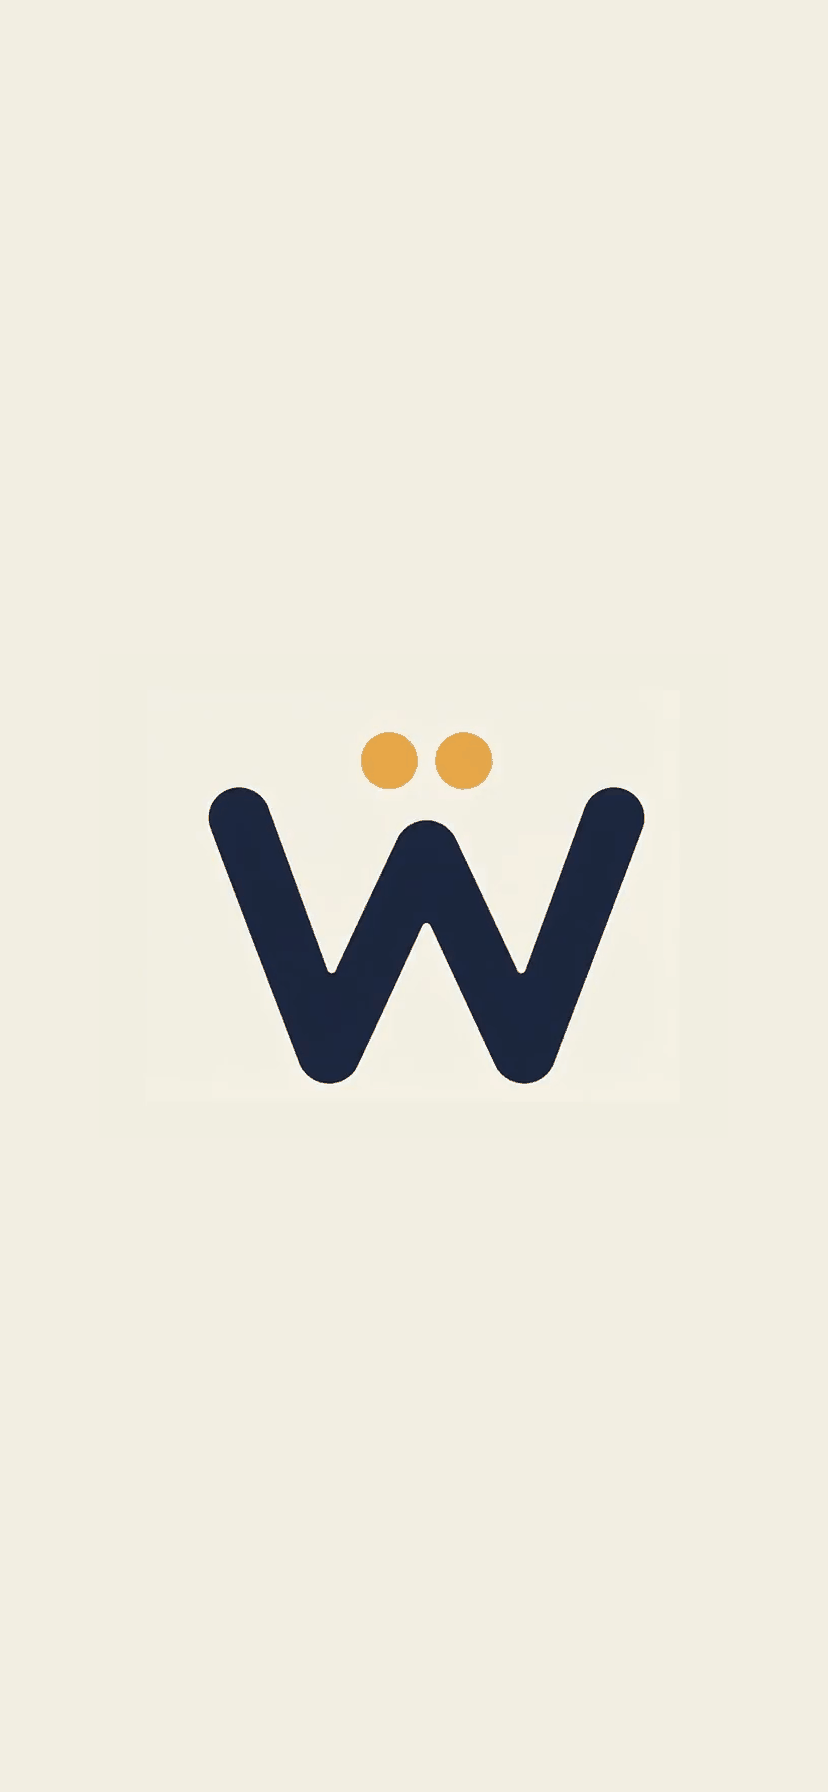
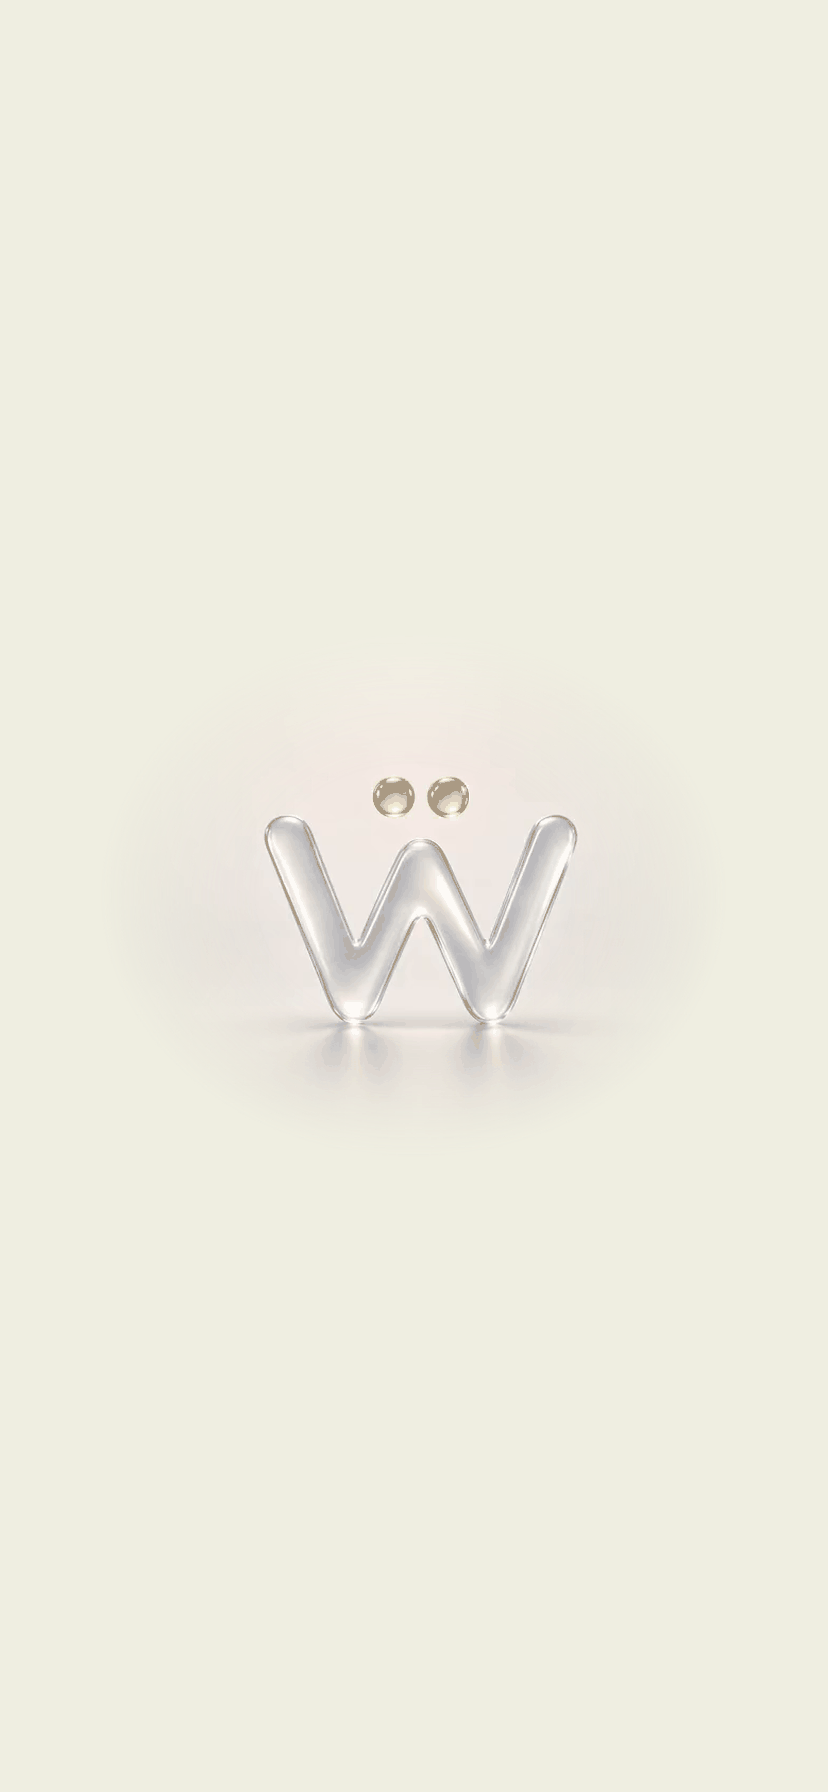
v443 : les eclairs de l'ouverture -- trois images differentes la ou il n'en fallait qu'une
Jacques : « je vois le logo, apres ca je vois une video, il y a comme des
flashs ». Trois causes, toutes mesurees.

1. LA VIDEO REPARTAIT EN ARRIERE. Un <video> reste affiche sur sa DERNIERE
image. On decouvrait donc l'ecran sur la fin de l'animation -- le logo
d'encre -- et le rembobinage qui suivait le faisait sauter a sa version de
verre avant de rejouer. Le logo apparaissait fini, reculait, puis repartait.
Mesure : apres la premiere ouverture, currentTime reste a 3,00 s ; couvrir()
remontrait cette image-la. Corrige en rembobinant AVANT de decouvrir, et des
que l'ecran est cache -- ou personne ne le voit. jouer() n'a donc plus a
rembobiner du tout : une ligne de moins, et l'ordre devient impossible a
inverser.

Ca vaut aussi pour la mise a jour silencieuse, qui passe par la meme porte.

2. L'IMAGE DE LANCEMENT iOS MONTRAIT UN AUTRE LOGO. Elle date du 28 aout
(v258) et reproduit la premiere image de l'ANCIENNE video : un W plat, bleu
encre. La video a ete remplacee en v372-v373 -- elle commence maintenant sur
un W de VERRE. iOS montrait donc le logo fini, puis la page peignait le logo
de verre. Rien ne signalait la derive : deux fichiers, deux calendriers.

3. ET SON FOND N'ETAIT PAS LE BON CREME : #F2EEE2 dans le generateur, #EFEEE1
dans la feuille de style. Trois points d'ecart sur chaque canal, sur un aplat
plein ecran -- assez pour se voir.

LA CORRECTION DE FOND, C'EST QUE LE GENERATEUR NE RECOPIE PLUS RIEN. Il lit
[…]

Changed region(s): [[0.2415, 0.4062, 0.785, 0.625]]

diff --git a/index.html b/index.html
@@ -227,7 +227,27 @@ html,body{margin:0}
     // l'ecran avant de recharger la page.
     window.ouvertureCouvrir = couvrir;
 
+    // REMBOBINER AVANT DE REMONTRER L'ECRAN, jamais apres (v443). Un <video>
+    // reste affiche sur sa derniere image, ici le logo d'encre de la fin. On
+    // decouvrait donc l'ecran sur la FIN de l'animation, et la remise a zero
+    // qui suivait la faisait sauter a sa version de verre avant de rejouer :
+    // le logo apparaissait fini, reculait, puis repartait. C'est l'eclair
+    // signale par Jacques -- a chaque retour dans l'app, et a chaque mise a
+    // jour silencieuse, qui passe par ici aussi.
+    //
+    // Rembobiner ne se voit pas tant que l'ecran est cache ; c'est donc la
+    // seule chose a faire dans le bon ordre, pas une animation a ajouter.
+    function rembobiner(){
+        // Rembobiner avant que la video ait ses metadonnees annule la lecture
+        // qu'on demanderait au meme instant. Au premier passage elle est deja
+        // a zero : il n'y a rien a rembobiner.
+        try{
+            if(video.readyState > 0 && video.currentTime > 0) video.currentTime = 0;
+        }catch(e){}
+    }
+
     function couvrir(){
+        rembobiner();
         ecran.classList.remove("parti");
         ecran.classList.remove("sortie");
     }
@@ -237,9 +257,10 @@ html,body{margin:0}
         enCours = false;
         if(douce){
             ecran.classList.add("sortie");
-            setTimeout(function(){ ecran.classList.add("parti"); }, 420);
+            setTimeout(function(){ ecran.classList.add("parti"); rembobiner(); }, 420);
         } else {
             ecran.classList.add("parti");   // sans fondu : on ne fait pas attendre
+            rembobiner();
         }
     }
 
@@ -248,13 +269,7 @@ html,body{margin:0}
     function jouer(){
         if(enCours) return;   // deja a l'ecran : on ne la rembobine pas
         enCours = true;
-        couvrir();
-        // Rembobiner AVANT que la video ait ses metadonnees annule la lecture
-        // qu'on demande au meme instant. Au premier passage elle est deja a
-        // zero : il n'y a rien a rembobiner.
-        try{
-            if(video.readyState > 0 && video.currentTime > 0) video.currentTime = 0;
-        }catch(e){}
+        couvrir();                       // rembobine, puis decouvre
         var lecture = video.play();
         // iOS en mode economie d'energie refuse la lecture automatique meme en
         // sourdine. Sans ceci l'app resterait figee sur la premiere image : on
@@ -3808,7 +3823,7 @@ body[data-theme="dark"] .home-stat-val{color:#e9ecf1;}
     </div>
 
     <div class="card home-stats-card" id="homeStatsCard">
-        <span class="subtitle-version">v442</span>
+        <span class="subtitle-version">v443</span>
         <div class="global-progress-row">
             <div class="home-stat-cote">
                 <div class="home-stat-ico">🔥</div>
@@ -18917,7 +18932,7 @@ document.addEventListener("visibilitychange", () => {
 
 
 // Le numero de version est affiche a cote du titre. Il n'y a volontairement
-const APP_VERSION = 442;
+const APP_VERSION = 443;
 
 function afficherNumeroVersion(){
     const el = document.querySelector(".subtitle-version");

diff --git a/branding/faire-ecrans-de-lancement.py b/branding/faire-ecrans-de-lancement.py
@@ -8,26 +8,45 @@ la taille de l'ecran. S'il n'en trouve aucune, il affiche sa photo de la
 session precedente -- l'accueil de l'app -- ce qui produisait l'eclair qu'on
 voyait avant la video d'ouverture.
 
-Chaque image reproduit donc au pixel pres ce que l'app affiche a la premiere
-milliseconde : fond creme #F2EEE2, et la PREMIERE IMAGE de la video
-d'ouverture, a la meme taille et au meme endroit que la regle CSS
-#splashOuverture video { width: min(76vw, 58vh, 420px) }. La transition entre
-l'ecran de lancement du systeme et la video devient invisible.
+Chaque image doit donc reproduire au pixel pres ce que le navigateur peint a
+la premiere milliseconde.
 
-Source de l'image : branding/ouverture-image0.png -- la premiere image de la
-video embarquee dans index.html, extraite une fois pour toutes et conservee
-ici, puisque la video n'existe qu'en base64 a l'interieur du HTML.
+TOUT EST LU DANS index.html, RIEN N'EST RECOPIE ICI (v443). La version
+precedente gardait sa propre copie de la premiere image (ouverture-image0.png)
+et sa propre couleur de fond en dur. Les deux ont derive sans que rien ne le
+signale : la video a ete remplacee en v372-v373 (le W de verre devenu W
+d'encre) sans que ces images soient refaites, et le fond y valait #F2EEE2
+quand la feuille de style disait #EFEEE1. Resultat sur l'iPhone : iOS montrait
+l'ancien logo plat, puis la page peignait le nouveau logo de verre sur un
+creme legerement different. Deux eclairs, a chaque lancement.
+
+Ce script extrait donc lui-meme :
+  - la video, depuis le base64 embarque dans index.html, et sa premiere image ;
+  - la couleur de fond, depuis la regle #splashOuverture ;
+  - la taille du logo, depuis width:min(..vw, ..vh, ..px) ;
+  - le fondu des bords, depuis le mask-image radial.
+Si l'une de ces regles change de forme, le script s'arrete au lieu de produire
+une image fausse en silence.
 
 Relancer apres tout changement de la video d'ouverture ou de sa regle CSS :
     python branding/faire-ecrans-de-lancement.py
 """
+import io
+import base64
 import pathlib
+import re
+import subprocess
+import tempfile
+
+import numpy as np
 from PIL import Image
 
-CREME = (242, 238, 226)          # #F2EEE2, fond de #splashOuverture
 RACINE = pathlib.Path(__file__).resolve().parent.parent
-SOURCE = RACINE / "branding" / "ouverture-image0.png"
+INDEX = RACINE / "index.html"
 SORTIE = RACINE / "branding" / "lancement"
+# Conservee pour l'oeil : c'est ce que le script vient de composer, pas sa
+# source. La source est index.html.
+IMAGE0 = RACINE / "branding" / "ouverture-image0.png"
 
 # (largeur CSS, hauteur CSS, densite) -- portrait uniquement : l'app se tient
 # a la verticale, et iOS ignore simplement une taille qu'il ne reconnait pas
@@ -47,9 +66,83 @@ APPAREILS = [
     (440, 956, 3),   # 16 Pro Max
 ]
 
-def largeur_css_du_logo(l_css, h_css):
-    """La regle CSS : width: min(76vw, 58vh, 420px)."""
-    return min(0.76 * l_css, 0.58 * h_css, 420.0)
+
+def lire_index():
+    return io.open(INDEX, encoding="utf-8", newline="").read()
+
+
+def premiere_image(html):
+    """La premiere image de la video embarquee, decodee par ffmpeg."""
+    m = re.search(r'src="data:video/mp4;base64,([A-Za-z0-9+/=]+)"', html)
+    assert m, "video d'ouverture introuvable dans index.html"
+    octets = base64.b64decode(m.group(1))
+    with tempfile.TemporaryDirectory() as tmp:
+        mp4 = pathlib.Path(tmp) / "ouverture.mp4"
+        png = pathlib.Path(tmp) / "image0.png"
+        mp4.write_bytes(octets)
+        subprocess.run(["ffmpeg", "-v", "error", "-y", "-i", str(mp4),
+                        "-frames:v", "1", str(png)], check=True)
+        img = Image.open(png).convert("RGB")
+        img.load()
+    print("  video embarquee : %.1f ko, premiere image %dx%d"
+          % (len(octets) / 1024, img.width, img.height))
+    return img
+
+
+def couleur_de_fond(html):
+    """La couleur de #splashOuverture, lue dans la feuille de style."""
+    bloc = re.search(r"#splashOuverture\{(.*?)\}", html, re.S)
+    assert bloc, "regle #splashOuverture introuvable"
+    m = re.search(r"background:#([0-9A-Fa-f]{6})", bloc.group(1))
+    assert m, "couleur de fond de #splashOuverture introuvable"
+    h = m.group(1)
+    return (int(h[0:2], 16), int(h[2:4], 16), int(h[4:6], 16)), "#" + h.upper()
+
+
+def regle_de_taille(html):
+    """width:min(Xvw, Yvh, Zpx) -- la largeur du logo a l'ecran."""
+    bloc = re.search(r"#splashOuverture video\{(.*?)\}", html, re.S)
+    assert bloc, "regle #splashOuverture video introuvable"
+    m = re.search(r"width:min\(\s*([\d.]+)vw\s*,\s*([\d.]+)vh\s*,\s*([\d.]+)px\s*\)",
+                  bloc.group(1))
+    assert m, "width:min(..vw, ..vh, ..px) introuvable ou de forme inattendue"
+    return float(m.group(1)) / 100, float(m.group(2)) / 100, float(m.group(3))
+
+
+def bornes_du_fondu(html):
+    """Le mask radial : opaque jusqu'a A % du rayon, transparent a B %.
+
+    Le CSS dit `radial-gradient(ellipse closest-side at 50% 50%,
+    #000 0, #000 50%, rgba(0,0,0,0) 100%)`. `closest-side` veut dire que les
+    rayons de l'ellipse valent la demi-largeur et la demi-hauteur de la video.
+    """
+    bloc = re.search(r"#splashOuverture video\{(.*?)\}", html, re.S)
+    m = re.search(r"mask-image:\s*radial-gradient\(ellipse closest-side at 50% 50%,"
+                  r"\s*#000 0,\s*#000 ([\d.]+)%,\s*rgba\(0,0,0,0\) ([\d.]+)%\)",
+                  bloc.group(1))
+    assert m, "mask-image radial de forme inattendue : le fondu n'est plus reproductible"
+    return float(m.group(1)) / 100, float(m.group(2)) / 100
+
+
+def appliquer_le_fondu(img, opaque, bord):
+    """Le meme fondu que le CSS, en alpha."""
+    l, h = img.size
+    ys, xs = np.mgrid[0:h, 0:l]
+    # Rayon normalise de l'ellipse : 0 au centre, 1 au milieu d'un bord,
+    # racine de 2 dans les coins. C'est l'echelle du degrade CSS, ou 100 %
+    # tombe sur le bord le plus proche (`closest-side`) -- pas sur le coin.
+    dx = (xs - (l - 1) / 2) / ((l - 1) / 2)
+    dy = (ys - (h - 1) / 2) / ((h - 1) / 2)
+    r = np.sqrt(dx * dx + dy * dy)
+    a = np.clip((bord - r) / (bord - opaque), 0.0, 1.0)
+    sortie = img.convert("RGBA")
+    sortie.putalpha(Image.fromarray((a * 255).round().astype(np.uint8), "L"))
+    return sortie
+
+
+def largeur_css_du_logo(l_css, h_css, part_l, part_h, plafond):
+    return min(part_l * l_css, part_h * h_css, plafond)
+
 
 # Part de la largeur de l'icone qu'occupe le monogramme. Dans le fichier
 # d'origine il n'en prenait que 55 %, ce qui le rendait minuscule une fois
@@ -57,6 +150,7 @@ def largeur_css_du_logo(l_css, h_css):
 # l'icone en carre arrondi : a 76 %, le logo respire encore sans jamais
 # s'approcher des coins ronges par ce masque.
 PART_DU_LOGO = 0.76
+
 
 def faire_icone():
     """Recadre le monogramme au plus pres, puis le recentre plus gros.
@@ -91,8 +185,24 @@ def faire_icone():
         logo.width, logo.height, round(100 * PART_DU_LOGO),
         round(100 * logo.width / src.width)))
 
+
 def main():
-    logo = Image.open(SOURCE).convert("RGB")
+    html = lire_index()
+    fond, fond_hex = couleur_de_fond(html)
+    part_l, part_h, plafond = regle_de_taille(html)
+    opaque, bord = bornes_du_fondu(html)
+    logo = appliquer_le_fondu(premiere_image(html), opaque, bord)
+
+    print("  lu dans index.html : fond %s | width:min(%d%%vw, %d%%vh, %dpx) | "
+          "fondu %d%% -> %d%%"
+          % (fond_hex, round(part_l * 100), round(part_h * 100), plafond,
+             round(opaque * 100), round(bord * 100)))
+
+    IMAGE0.write_bytes(b"")
+    apercu = Image.new("RGB", logo.size, fond)
+    apercu.paste(logo, (0, 0), logo)
+    apercu.save(IMAGE0, optimize=True)
+
     SORTIE.mkdir(parents=True, exist_ok=True)
     for ancien in SORTIE.glob("*.png"):
         ancien.unlink()
@@ -101,15 +211,15 @@ def main():
     lignes = []
     for l_css, h_css, densite in APPAREILS:
         lp, hp = l_css * densite, h_css * densite
-        toile = Image.new("RGB", (lp, hp), CREME)
-        ll = round(largeur_css_du_logo(l_css, h_css) * densite)
+        toile = Image.new("RGB", (lp, hp), fond)
+        ll = round(largeur_css_du_logo(l_css, h_css, part_l, part_h, plafond) * densite)
         lh = round(ll * rapport)
-        toile.paste(logo.resize((ll, lh), Image.LANCZOS),
-                    ((lp - ll) // 2, (hp - lh) // 2))
-        # Palette : l'image est un aplat creme plus un logo a deux encres.
-        # 64 couleurs suffisent et divisent le poids par dix.
+        vignette = logo.resize((ll, lh), Image.LANCZOS)
+        toile.paste(vignette, ((lp - ll) // 2, (hp - lh) // 2), vignette)
+        # Palette : un aplat creme, un logo, et le degrade du fondu entre les
+        # deux. 128 couleurs -- 64 laissaient des cercles dans le fondu.
         nom = "lancement-%dx%d@%dx.png" % (l_css, h_css, densite)
-        toile.quantize(colors=64, method=Image.MEDIANCUT).save(
+        toile.quantize(colors=128, method=Image.MEDIANCUT).save(
             SORTIE / nom, optimize=True)
         lignes.append((nom, l_css, h_css, densite,
                        (SORTIE / nom).stat().st_size))
@@ -122,6 +232,7 @@ def main():
     print("  %d ecrans, %.0f ko au total" % (len(lignes), total/1024))
     print("  apple-touch-icon 180x180 : %.1f ko" % (
         (RACINE/"branding"/"wortando-apple-touch-icon.png").stat().st_size/1024))
+
 
 if __name__ == "__main__":
     main()
